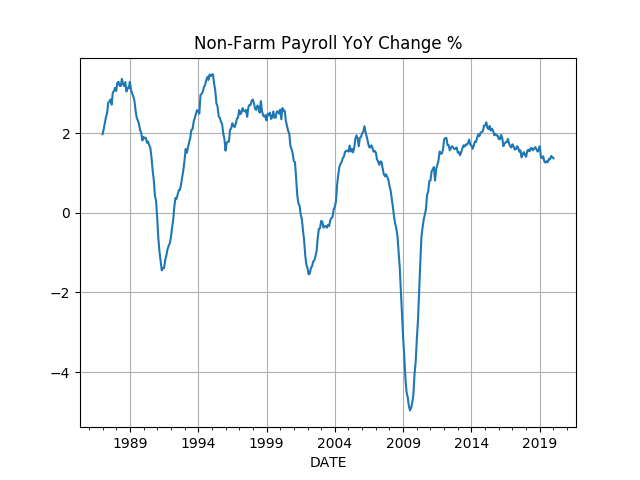
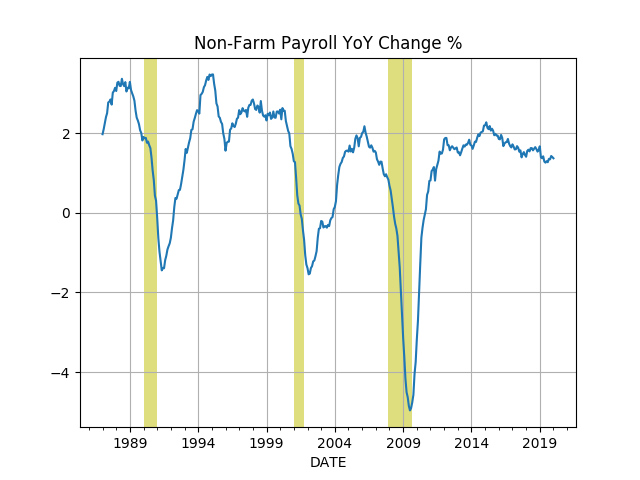
-

Changed region(s): [[0.5938, 0.125, 0.6562, 0.9062], [0.4375, 0.125, 0.5, 0.9062], [0.2188, 0.125, 0.25, 0.9062]]

diff --git a/en/2019/05/stats.md b/en/2019/05/stats.md
@@ -169,6 +169,9 @@ DATE
 ```python
 df.nfpyoy.plot()
 plt.grid(True)
+plt.axvspan('01-09-1990', '01-07-1991', color='y', alpha=0.5, lw=0)
+plt.axvspan('01-03-2001', '27-10-2001', color='y', alpha=0.5, lw=0)
+plt.axvspan('22-12-2007', '09-05-2009', color='y', alpha=0.5, lw=0)
 plt.title('Non-Farm Payroll YoY Change %')
 plt.savefig('nfp.png')
 ```
@@ -188,19 +191,19 @@ df3 = df3.dropna()
 df3['ECIWAG2'] = df3.shift(4).ECIWAG
 df3['wagegrowth'] = (df3.ECIWAG-df3.ECIWAG2) / df3.ECIWAG2 * 100.
 df3['unempl'] = 100.0 - df3.CIVPART
-print (df3['ECIWAG2'].tail(7))
+print (df3['wagegrowth'].tail(7))
 ```
 
 ```text
 DATE
-2018-04-01    129.0
-2018-07-01    130.0
-2018-10-01    130.8
-2019-01-01    132.0
-2019-04-01    132.8
-2019-07-01    133.9
-2019-10-01    134.9
-Freq: 3MS, Name: ECIWAG2, dtype: float64
+2018-04-01    2.945736
+2018-07-01    3.000000
+2018-10-01    3.134557
+2019-01-01    2.954545
+2019-04-01    2.936747
+2019-07-01    2.987304
+2019-10-01    2.965159
+Freq: 3MS, Name: wagegrowth, dtype: float64
 ```
 
 ```python
@@ -228,9 +231,19 @@ end=datetime.datetime(today.year, today.month, today.day)
 cols = ['IC4WSA']
 df = data.DataReader(cols, 'fred', start, end)
 df.IC4WSA.plot()
+print (df.tail(4))
 plt.axvspan('01-03-2001', '27-10-2001', color='y', alpha=0.5, lw=0)
 plt.axvspan('22-12-2007', '09-05-2009', color='y', alpha=0.5, lw=0)
 plt.savefig('initial-claims.png')
+```
+
+```text
+            IC4WSA
+DATE              
+2020-01-11  216500
+2020-01-18  216250
+2020-01-25  214750
+2020-02-01  211750
 ```
 
 ![](initial-claims.png)

diff --git a/en/tweets/2020/week6.md b/en/tweets/2020/week6.md
@@ -241,11 +241,11 @@ Bernie did great in Iowa. Onwards to New Hampshire!
 
 ---
 
-@jenniferatntd
+"@jenniferatntd
 
 [How many deaths?] One leaked Chinese source says over 20 K, but got
 deleted soon... No way to verify, as the \#CCP doesn't tell you the
-truth. But definitely much, much more than the official number.
+truth. But definitely much, much more than the official number"
 
 *2020-2-7 17:38:52*
 
